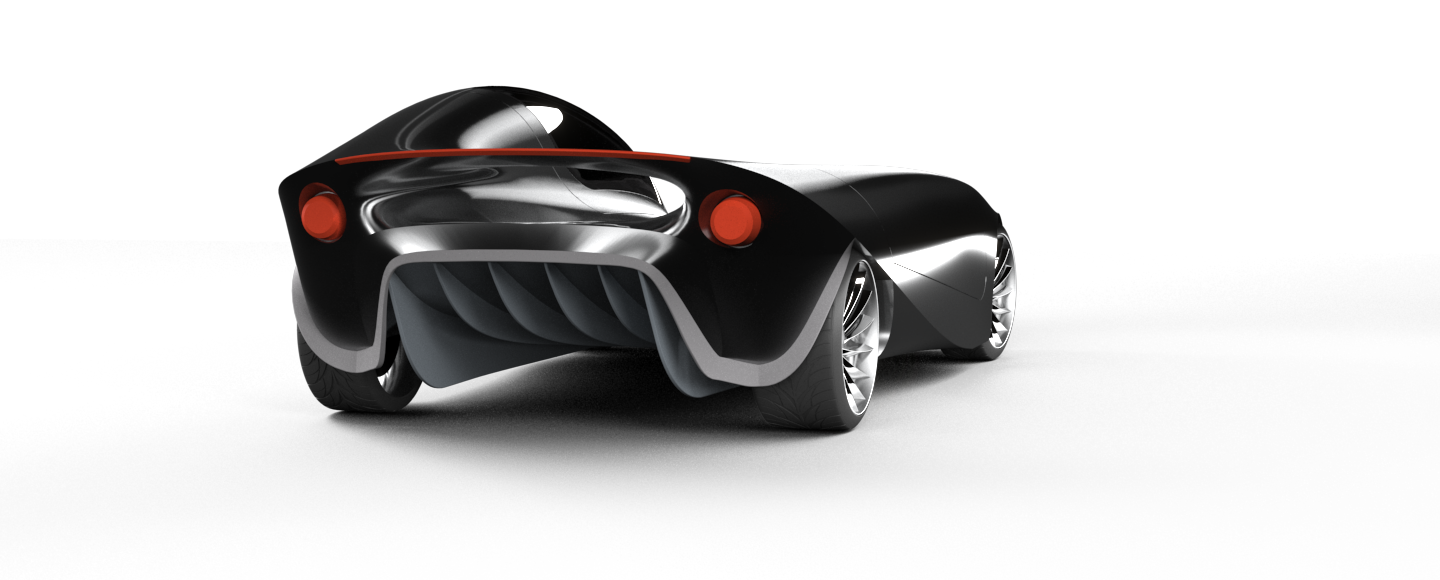
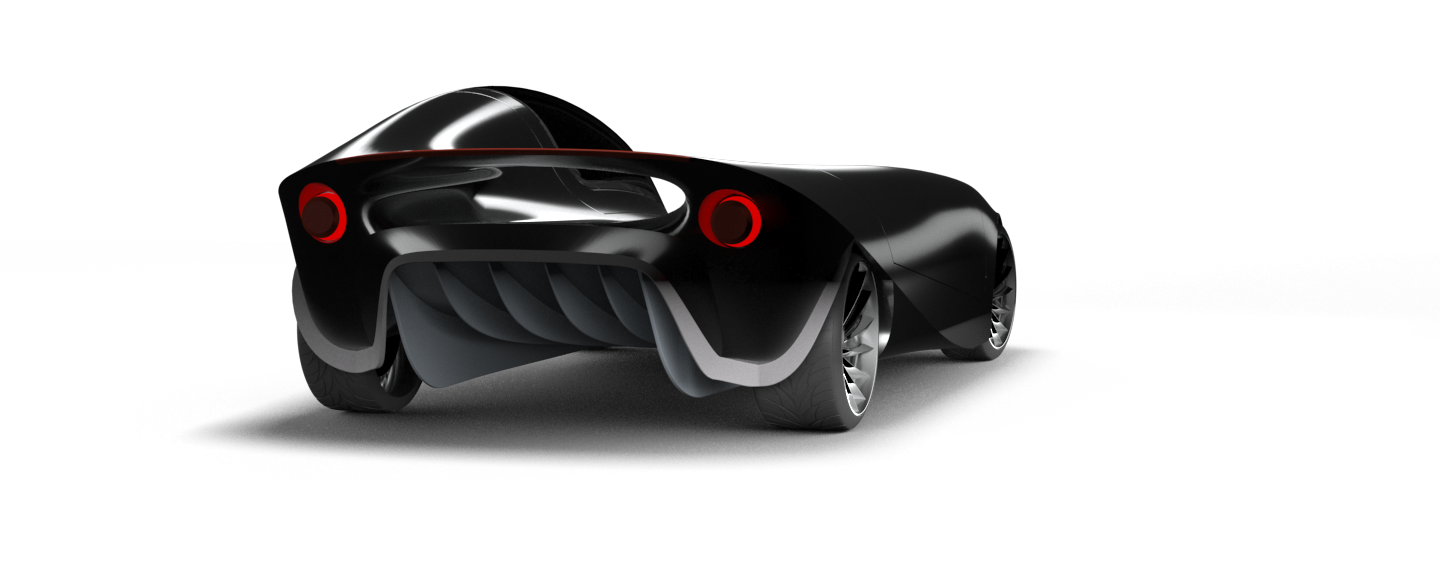
add new pictures

Changed region(s): [[0.125, 0.1552, 0.7188, 0.869], [0.1875, 0.4655, 0.2188, 0.5897], [0.4688, 0.7138, 0.5, 0.7448]]

diff --git a/index.html b/index.html
@@ -137,13 +137,13 @@
       <div class="grid-parent-desktop">
         <div class="grid-item2">
           <img
-            src="IMG/Car_IMG/car_white_tech_front crop.png"
+            src="IMG/Car_IMG/bilutanbakgrund2.webp"
             alt="Front right portion of car"
           />
         </div>
         <div class="grid-item1">
           <img
-            src="IMG/Car_IMG/car_white_tech_back.png"
+            src="IMG/Car_IMG/bilutanbakgrund.webp"
             alt="Back portion of car"
           />
         </div>
@@ -172,7 +172,7 @@
       <div class="grid-parent-mobile">
         <div class="grid-item1">
           <img
-            src="img/Car_IMG/tech_front_mob.png"
+            src="img/Car_IMG/bilutanbakgrund2.webp"
             alt="Front right portion of car"
           />
         </div>
@@ -185,7 +185,10 @@
           </ul>
         </div>
         <div class="grid-item3">
-          <!-- <img src="img/Car_IMG/tech_back_mob.png" alt="Back portion of car" /> -->
+          <img
+            src="img/Car_IMG/bilutanbakgrund.webp"
+            alt="Back portion of car"
+          />
         </div>
         <div class="grid-item4">
           <h3>Interior</h3>
@@ -195,7 +198,7 @@
           </p>
         </div>
         <div class="grid-item5">
-          <!-- <img src="img/Car_IMG/tech_side_mob.png" alt="Front portion of car" /> -->
+          <img src="img/Car_IMG/tech_front.webp" alt="Front portion of car" />
         </div>
         <div class="grid-item6">
           <h3>Soundsystem</h3>
